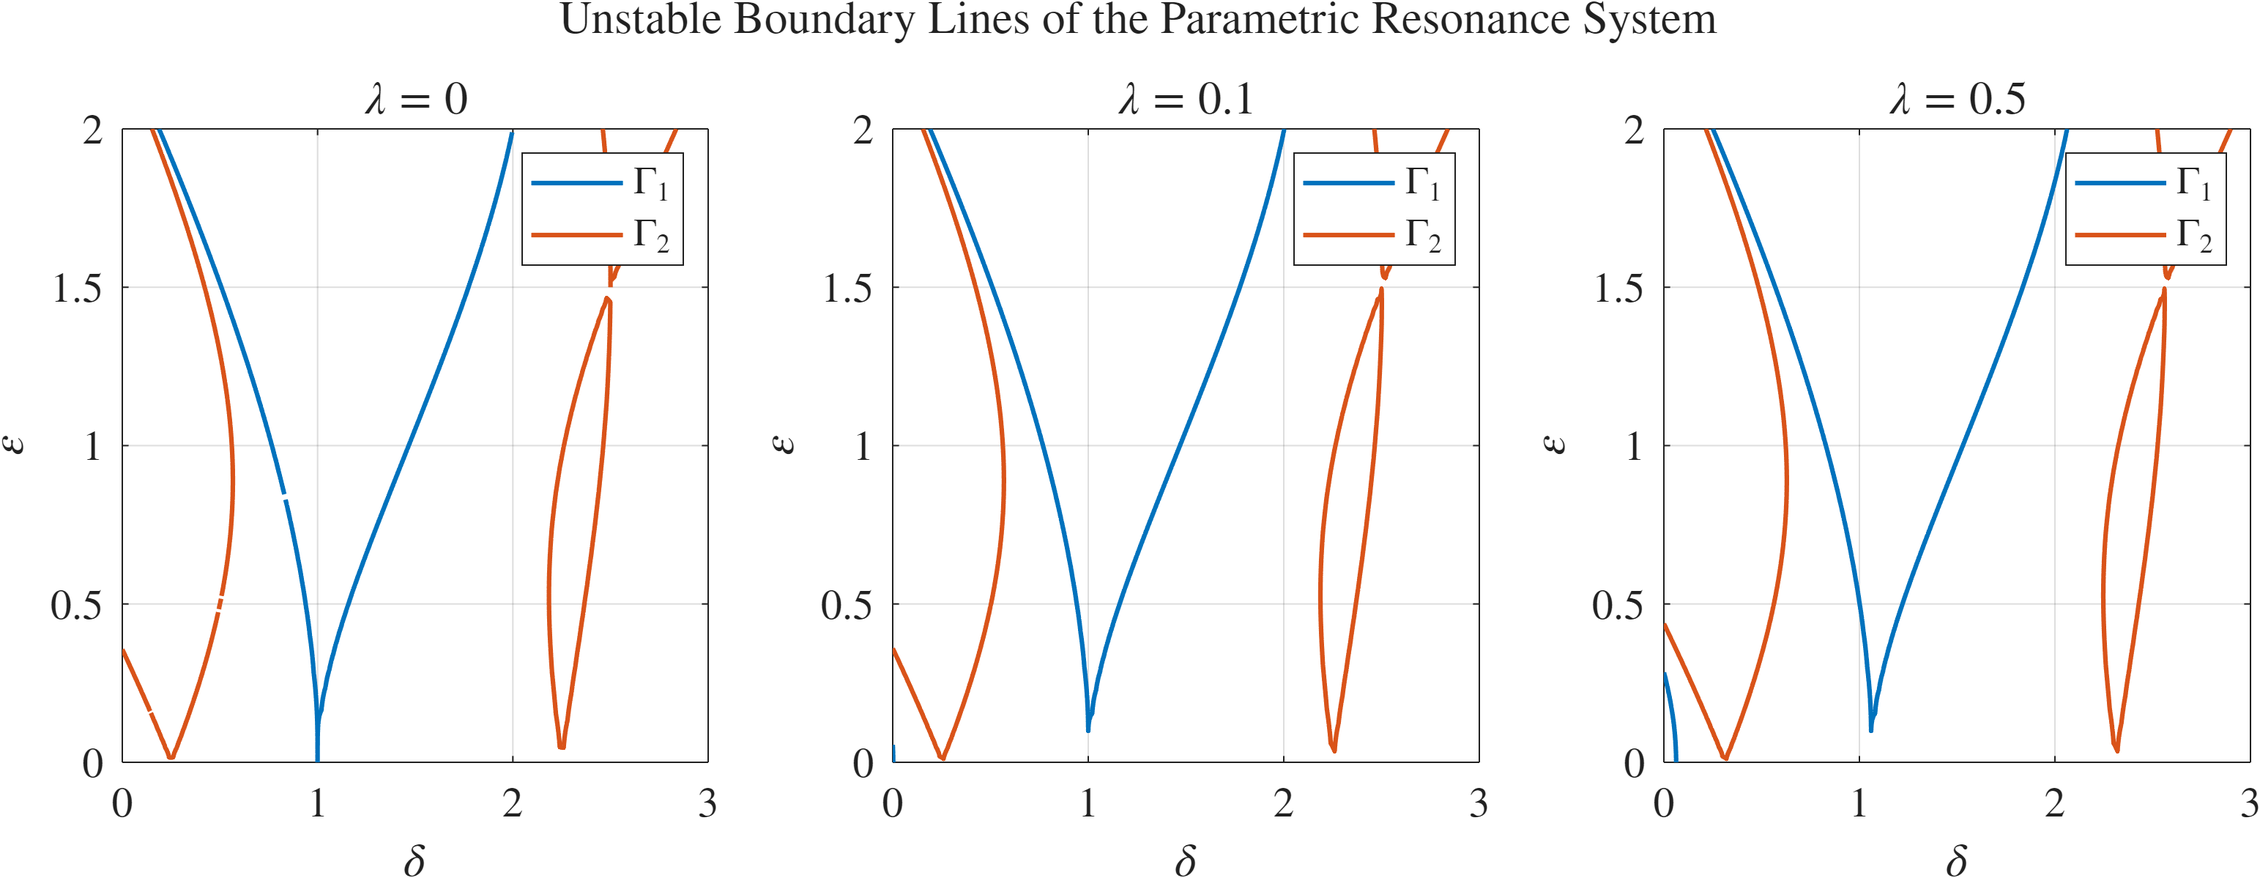
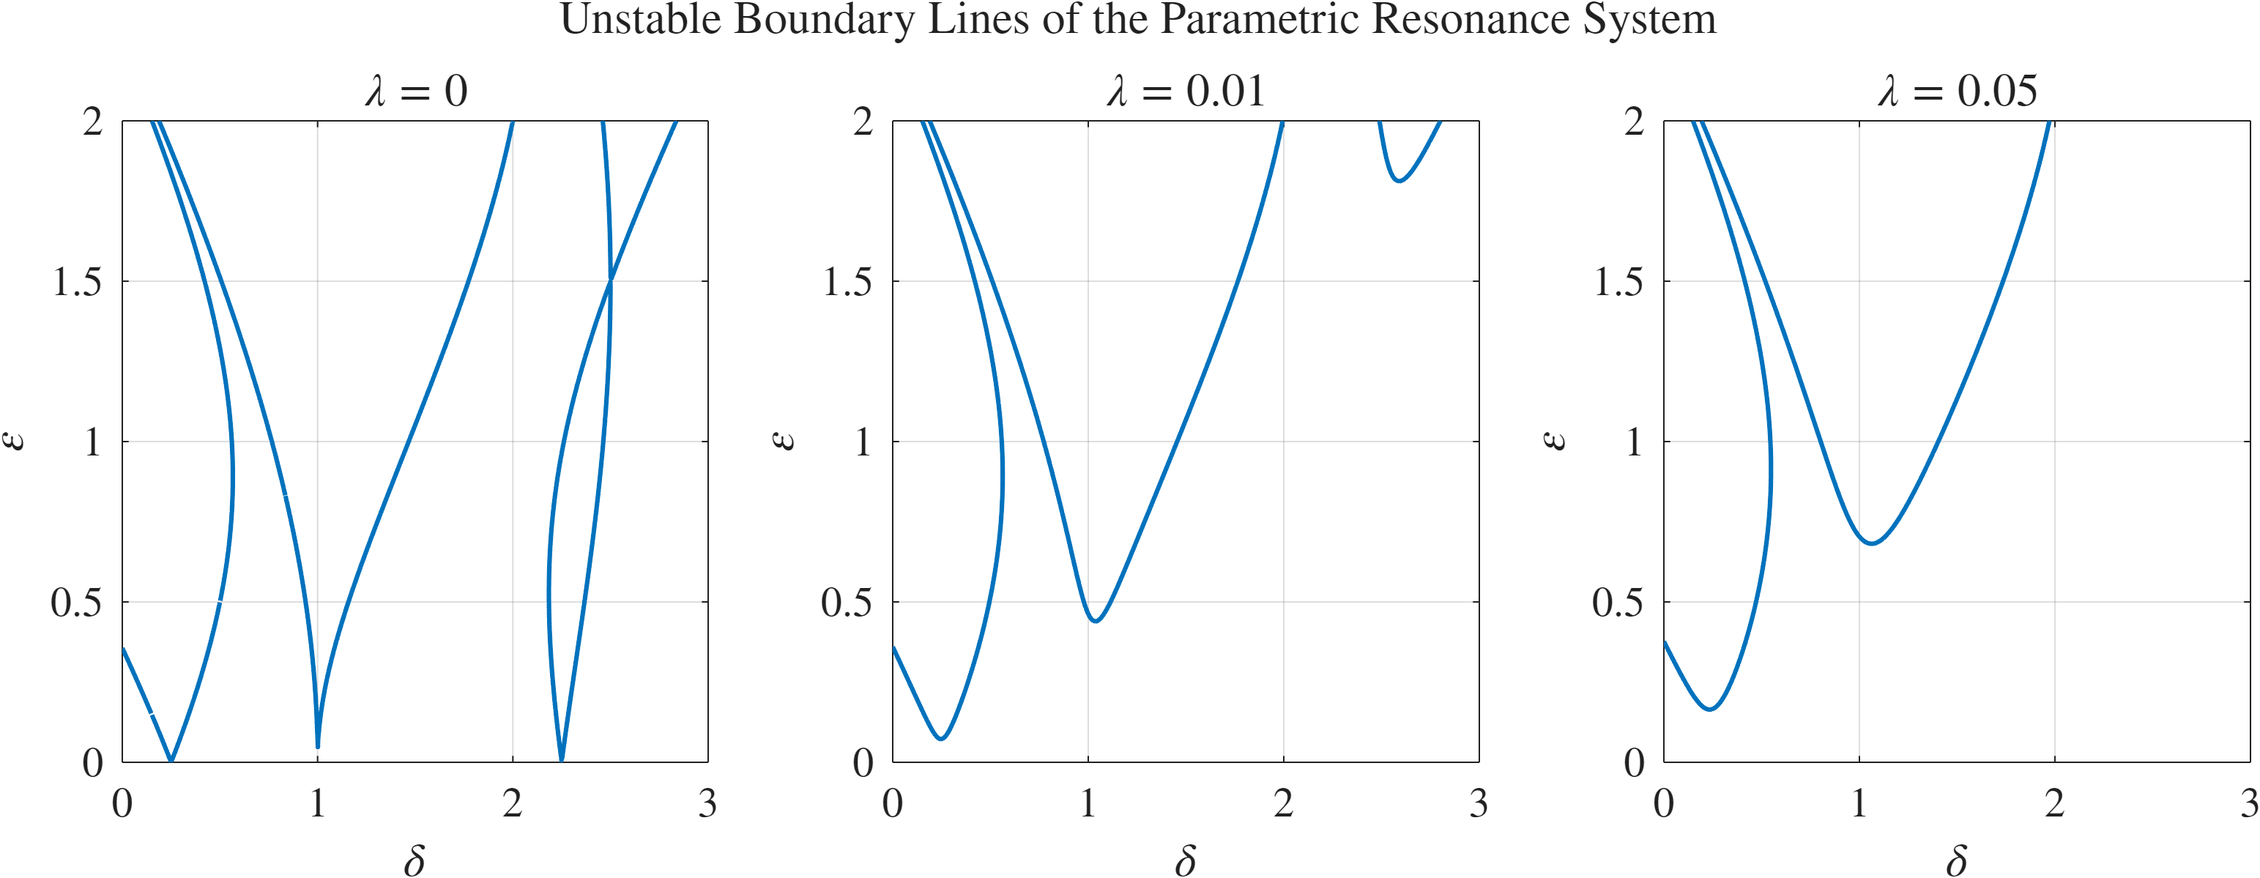
Add MDN and DVI content

diff --git a/Technion/DVI1/DVI1_005/code/q1.m b/Technion/DVI1/DVI1_005/code/q1.m
@@ -1,0 +1,69 @@
+clc; clear; close all;
+
+% Define the functions for the curves
+Gamma1 = @(delta, epsilon) (2*cos(pi*sqrt(delta+epsilon)).*sin(pi*sqrt(delta-epsilon)) - ...
+    (sqrt(delta+epsilon)./sqrt(delta-epsilon) + sqrt(delta-epsilon)./sqrt(delta+epsilon)).* ...
+    cos(pi*sqrt(delta-epsilon)).*sin(pi*sqrt(delta+epsilon))).*sin(2*pi*sqrt(delta-epsilon)) + ...
+    (2*cos(pi*sqrt(delta+epsilon)).*cos(pi*sqrt(delta-epsilon)) + ...
+    (sqrt(delta+epsilon)./sqrt(delta-epsilon) + sqrt(delta-epsilon)./sqrt(delta+epsilon)).* ...
+    sin(pi*sqrt(delta-epsilon)).*sin(pi*sqrt(delta+epsilon))).*cos(2*pi*sqrt(delta-epsilon)) - 2;
+
+Gamma2 = @(delta, epsilon) (2*cos(pi*sqrt(delta+epsilon)).*sin(pi*sqrt(delta-epsilon)) - ...
+    (sqrt(delta+epsilon)./sqrt(delta-epsilon) + sqrt(delta-epsilon)./sqrt(delta+epsilon)).* ...
+    cos(pi*sqrt(delta-epsilon)).*sin(pi*sqrt(delta+epsilon))).*sin(2*pi*sqrt(delta-epsilon)) + ...
+    (2*cos(pi*sqrt(delta+epsilon)).*cos(pi*sqrt(delta-epsilon)) + ...
+    (sqrt(delta+epsilon)./sqrt(delta-epsilon) + sqrt(delta-epsilon)./sqrt(delta+epsilon)).* ...
+    sin(pi*sqrt(delta-epsilon)).*sin(pi*sqrt(delta+epsilon))).*cos(2*pi*sqrt(delta-epsilon)) + 2;
+
+% Plot the curves using fimplicit
+plotcolors = get(gca, 'ColorOrder');
+
+fimplicit(Gamma1, [0 3 0 1], 'LineWidth', 1.5, 'Color', plotcolors(1, :), 'MeshDensity', 600);
+hold on;
+fimplicit(Gamma2, [0 3 0 1], 'LineWidth', 1.5, 'Color', plotcolors(1, :), 'MeshDensity', 600);
+
+% Plot 6 points with different colors
+epsilon = 0.5;
+delta_values = [0.25, 0.75, 1.05, 1.5, 2.27, 2.75];
+for i = 1:length(delta_values)
+    plot(delta_values(i), epsilon, 'o', 'MarkerSize', 8, 'MarkerEdgeColor', plotcolors(mod(i, size(plotcolors, 1)) + 1, :), 'MarkerFaceColor', plotcolors(mod(i, size(plotcolors, 1)) + 1, :));
+end
+
+xlabel('$\delta$', 'Interpreter', 'latex');
+ylabel('$\epsilon$', 'Interpreter', 'latex');
+title('Strutt Diagram', 'Interpreter', 'latex');
+legend({'$\Gamma_1$', '$\Gamma_2$'}, 'Interpreter', 'latex');
+grid on;
+hold off;
+set(gcf, 'Position', [100, 100, 600, 400]);
+
+% Save the plot
+exportgraphics(gcf, 'q1.png', 'Resolution', 300);
+
+% Time domain response for the 6 points
+figure;
+tspan = linspace(0, 300, 1000);
+
+T = 2 * pi;
+u0 = [0.1; 0]; % Assuming initial displacement of 1 and initial velocity of 0
+
+
+for i = 1:length(delta_values)
+    delta = delta_values(i);
+    k = @(t) (mod(t, T) <= T/2) * (delta + epsilon) + (mod(t, T) > T/2) * (delta - epsilon);
+        % Define the ODE system
+    ode_system = @(t, u) [u(2); -k(t) * u(1)];
+
+    % Solve the ODE
+    [t, u] = ode45(ode_system, tspan, u0);
+    subplot(3, 2, i);
+    plot(t, u, 'Color', plotcolors(mod(i, size(plotcolors, 1)) + 1, :), 'LineWidth', 1.5);
+    xlabel('$t$', 'Interpreter', 'latex');
+    ylabel('$u$', 'Interpreter', 'latex');
+    title(['$\delta = ', num2str(delta), '$'], 'Interpreter', 'latex');
+    grid on;
+end
+
+% Adjust figure size and save
+set(gcf, 'Position', [100, 100, 600, 600]);
+exportgraphics(gcf, 'q1_responses.png', 'Resolution', 300);

diff --git a/Technion/DVI1/DVI1_HW002/code/p1.m b/Technion/DVI1/DVI1_HW002/code/p1.m
@@ -20,7 +20,7 @@ for i = 1:length(lambda_values)
         (2*cos(pi*sqrt(delta - lambda^2/4 + epsilon)).*cos(pi*sqrt(delta - lambda^2/4 - epsilon)) + ...
         (sqrt(delta - lambda^2/4 + epsilon)./sqrt(delta - lambda^2/4 - epsilon) + sqrt(delta - lambda^2/4 - epsilon)./sqrt(delta - lambda^2/4 + epsilon)).* ...
         sin(pi*sqrt(delta - lambda^2/4 - epsilon)).*sin(pi*sqrt(delta - lambda^2/4 + epsilon))).* ...
-        cos(2*pi*sqrt(delta - lambda^2/4 - epsilon)) - 2;
+        cos(2*pi*sqrt(delta - lambda^2/4 - epsilon)) - 2 .* sqrt(exp(lambda * 2 * pi) + 2 * lambda * exp(lambda * pi) + lambda^2);
 
     Gamma_2 = @(delta, epsilon) ...
         (2*cos(pi*sqrt(delta - lambda^2/4 + epsilon)).*sin(pi*sqrt(delta - lambda^2/4 - epsilon)) - ...
@@ -30,21 +30,22 @@ for i = 1:length(lambda_values)
         (2*cos(pi*sqrt(delta - lambda^2/4 + epsilon)).*cos(pi*sqrt(delta - lambda^2/4 - epsilon)) + ...
         (sqrt(delta - lambda^2/4 + epsilon)./sqrt(delta - lambda^2/4 - epsilon) + sqrt(delta - lambda^2/4 - epsilon)./sqrt(delta - lambda^2/4 + epsilon)).* ...
         sin(pi*sqrt(delta - lambda^2/4 - epsilon)).*sin(pi*sqrt(delta - lambda^2/4 + epsilon))).* ...
-        cos(2*pi*sqrt(delta - lambda^2/4 - epsilon)) + 2;
+        cos(2*pi*sqrt(delta - lambda^2/4 - epsilon)) + 2 .* sqrt(exp(lambda * 2 * pi) + 2 * lambda * exp(lambda * pi) + lambda^2);
 
     % Create a subplot for each lambda
     subplot(1, length(lambda_values), i);
-    % Plot the implicit functions
-    fimplicit(Gamma_1, [0 3 0 2], 'LineWidth', 1.5);
+    % Plot the curves using fimplicit
+    plotcolors = get(gca, 'ColorOrder');
+
+    fimplicit(Gamma_1, [0 3 0 2], 'LineWidth', 1.5, 'Color', plotcolors(1, :), 'MeshDensity', 600);
     hold on;
-    fimplicit(Gamma_2, [0 3 0 2], 'LineWidth', 1.5);
+    fimplicit(Gamma_2, [0 3 0 2], 'LineWidth', 1.5, 'Color', plotcolors(1, :), 'MeshDensity', 600);
     hold off;
 
     % Add labels and title
     xlabel('$\delta$');
     ylabel('$\varepsilon$');
     title(['$\lambda = ', num2str(lambda), '$']);
-    legend('$\Gamma_1$', '$\Gamma_2$');
     grid on;
 
     set(gcf, 'Units', 'pixels', 'Position', [300, 300, 1200, 400]); % Set figure size and position

diff --git a/Technion/MDN1/MDN1_HW009/code/p1.py b/Technion/MDN1/MDN1_HW009/code/p1.py
@@ -1,0 +1,55 @@
+# %% Question 1
+import numpy as np
+
+N_P = 15
+m = 5  # mm
+d_P = float(N_P * m)  # mm
+print(f'd_P = {d_P:.5} mm')
+
+n_arm = 250  # rpm
+n_S = -5000 / 7  # rpm
+N_S = 35
+
+# Calculate n_P
+n_P = (-(N_S / N_P) * (n_S - n_arm)) + n_arm
+print(f'n_P = {n_P:.5} rpm')
+
+# Calculate W_t,P
+H = 5000  # W
+W_t_P = (30000 * H) / (np.pi * d_P * n_P)  # N
+print(f'W_t,P = {W_t_P:.5} N')
+
+# %% Question 2
+
+# Calculate W_r,P
+phi = np.radians(20)  # Convert angle to radians
+W_r_P = W_t_P * np.tan(phi)  # N
+print(f'W_r,P = {W_r_P:.5} N')
+
+# %% Question 3
+
+# Given data
+K_O = 1.5
+K_V = 1.3
+K_s = 1
+K_H = 1.4
+K_B = 1
+Y_J = 0.25
+H_B = 350
+S_F = 1
+Y_Z = 1
+Y_theta = 1
+Y_N = 0.97678
+
+# Calculate S_t
+S_t = 0.533 * H_B + 88.3  # MPa
+print(f'S_t = {S_t:.5} MPa')
+
+# Calculate sigma_b_all
+sigma_b_all = (S_t / S_F) * (Y_N / (Y_theta * Y_Z))  # MPa
+print(f'sigma_b_all = {sigma_b_all:.5} MPa')
+
+# Find the maximum allowable b
+b_max = W_t_P * K_O * K_V * K_s * K_H * K_B / (sigma_b_all * Y_J * m)  # mm
+print(f'b_max = {b_max:.5} mm')
+

diff --git a/Technion/MDN1/MDN1_HW009 תרגיל בית 9.md b/Technion/MDN1/MDN1_HW009 תרגיל בית 9.md
@@ -1,0 +1,93 @@
+---
+aliases:
+---
+# בעיה 1
+נתונים:
+$$\begin{aligned}
+ & {n}_{\text{arm}}=\pu{250rpm}, &  & H=\pu{5kW}, \\[1ex]
+ & \phi=20^{\circ}, &  & m=\pu{5mm} \\[1ex]
+ & {N}_{R}=65, &  & {N}_{A}=20, \\[1ex]
+ & {N}_{B}=80, &  & {N}_{S}=35
+\end{aligned}$$
+
+## שאלה 1
+לפי [[MDN1_008 כוחות שילוב ומאמצי מגע בשן#ניתוח כוחות - גג"ש ישרות|כוח משיקי בגג"ש ישרות]]:
+$${W}_{t}=\dfrac{\pu{60000}H}{\pi dn}$$
+בהנחה ואין איבוד הספקים, לאורך כל התמסורת ההספק המועבר הוא $H$ הנתון. אבל, נשים לב שמאחר ויש שני לוויינים, על כל אחד מהם פועל מחצית מההספק:
+$${W}_{t,P}=\dfrac{\pu{30000}H}{\pi {d}_{P}{n}_{P}}$$
+כאשר הסימון $P$ הוא עבור planet.
+מ[[MDN1_HW007 תרגיל בית 7#שאלה 1|שאלה בתרגיל בית קודם]] אנו יודעים ש- ${N}_{P}=15$, ומאחר והמודול הוא $m=\pu{5mm}$:
+$${d}_{P}={N}_{P}m=\pu{75mm}$$
+מאותה השאלה אנו גם יודעים ש:
+$${n}_{S}=-\dfrac{5000}{7}\,\pu{rpm}$$
+כדי למצוא את המהירות הזוויתית של הלוויינים, נשים לב שלפי [[MDN1_006 תמסורות מכאניות#תמסורת פלנטרית|תמסורת פלנטרית]], ולפי מספר השיניים:
+$$\begin{gathered}
+\left( -\dfrac{{N}_{S}}{{N}_{P}} \right)={e}_{S/P}=\dfrac{{n}_{P}-{n}_{\text{arm}}}{{n}_{S}-{n}_{\text{arm}}} \\[1ex]
+-\dfrac{35}{15}=\dfrac{{n}_{P}-250}{-5000/7-250} \\[1ex]
+{n}_{P}=\pu{2500rpm} \\[1ex]
+\end{gathered}$$
+נציב הכל לתוך הביטוי ל-${W}_{t,P}$:
+$${W}_{t,P}=\dfrac{\pu{30000}H}{\pi {d}_{P}{n}_{P}}=\dfrac{\pu{30000}\cdot\pu{5000}}{\pi \cdot \pu{75} \cdot \pu{2500}}
+$$
+לכן:
+$$\boxed {
+{W}_{t,P}=\pu{254.65N}
+ }$$
+
+## שאלה 2
+
+את רכיבי הכוחות הרדיאליים ניתן לחשב באמצעות זוויות הלחץ (גאומטריה):
+$${W}_{r}={W}_{t}\tan \phi$$
+במקרה שלנו זה פשוט:
+$$\begin{gathered}
+{W}_{r,P}={W}_{t,P}\tan 20^{\circ}=\pu{254.65} \cdot \tan 20^{\circ} \\[1ex]
+\boxed{{W}_{r,P}=\pu{92.684N} }
+\end{gathered}$$
+
+## שאלה 3
+נביט ב[[MDN1_008 כוחות שילוב ומאמצי מגע בשן#משוואות מאמץ AGMA|משוואה]] $(\text{14-15})$:
+$$\begin{gathered}
+{\sigma}_{b}=W^{t}{K}_{o}{K}_{v}{K}_{s} \dfrac{1}{b{m}} \dfrac{{K}_{H}{K}_{B}}{{Y}_{J}}
+\end{gathered}$$
+נרצה לדעת עבור איזה $b$ מתקיים שהמאמץ כפיפה הוא מתחת ל[[MDN1_008 כוחות שילוב ומאמצי מגע בשן#מאמץ כפיפה מותר|מאמץ הכפיפה המותר]]:
+$${\sigma}_{b,\, \text{all}}=\dfrac{{S}_{t}}{{S}_{F}} \dfrac{{Y}_{N}}{{Y}_{\theta}{Y}_{Z}}$$
+
+כלומר, מהתנאי ${\sigma}_{b}<{\sigma}_{b,\,\text{all}}$ נחלץ מהו $b$ המותר.
+
+נחשב את כל אחד מהמקדמים:
+- נתונים לנו כבר:
+	$$\begin{aligned}
+ & {K}_{o}=1.5, &  & {K}_{v}=1.3, \\[1ex]
+ & {K}_{s}=1, &  & {K}_{H}=1.4
+\end{aligned}$$
+- מבחינת [[MDN1_008 כוחות שילוב ומאמצי מגע בשן#מקדם עובי הזר|מקדם עובי הזר]], נחשב את יחס הגיבוי ${m}_{B}$. עבור גג"ש מלא, אנו יודעים לחשב את רדיוס המעגל העיקרי באופן הבא:
+	$${m}_{B}=\dfrac{{t}_{R}}{{h}_{t}}=\dfrac{[({N}_{P}/2)-1.25]m}{2.25m}=2.7778$$
+	ולכן המקדם:
+	$${K}_{B}=1$$
+- את ה[[MDN1_008 כוחות שילוב ומאמצי מגע בשן#מקדם הצורה|מקדם הצורה]] נשלוף מטבלה רלוונטית עבור מספר השיניים בלוויין ${n}_{P}=15$ , מספר השיניים בשמש ${N}_{S}=35$, וזווית לחץ של $20^{\circ}$. מהגרף:
+	$${Y}_{J,P}=\dots =0.25$$
+- ה[[MDN1_008 כוחות שילוב ומאמצי מגע בשן#חוזק לכפיפה|חוזק לכפיפה]] עבור Grade 1 ו-$350{H}_{B}$ הינו:
+	$$\begin{aligned}
+{S}_{t} & =0.533{H}_{B}+88.3 \\[1ex]
+ & =\pu{274.85MPa}
+\end{aligned}$$
+- ה[[#מקדם אמינות]], מאחר והניסויים גם מתבצעים עבור $99\%$:
+	$${Y}_{Z}=1$$
+- ניקח [[MDN1_008 כוחות שילוב ומאמצי מגע בשן#מקדם טמפרטורה|מקדם טמפרטורה]] ${Y}_{\theta}=1$.
+- נבחר מקדם ביטחון לכפיפה ${S}_{F}=1$.
+- מבחינת [[MDN1_008 כוחות שילוב ומאמצי מגע בשן#מקדם מספר מחזורים לכפיפה|מקדם מספר מחזורים לכפיפה]], כיוון שאנו דורשים מספר מחזורים מעל $10^{8}$:
+	$${Y}_{N}=1.3558N^{-0.0178}=0.97678$$
+נציב הכל ב[[#מאמץ כפיפה מותר|משוואה]] $(\text{14-17})$:
+$${\sigma}_{b,\, \text{all}}=\dfrac{{S}_{t}}{{S}_{F}} \dfrac{{Y}_{N}}{{Y}_{\theta}{Y}_{Z}}=\pu{268.47MPa}$$
+נזכור כי אנו רוצים לקיים ${\sigma}_{b}<{\sigma}_{b,\,\text{all}}$:
+$$\begin{gathered}
+W^{t}{K}_{o}{K}_{v}{K}_{s} \dfrac{1}{b{m}} \dfrac{{K}_{H}{K}_{B}}{{Y}_{J}}<{\sigma}_{b,\, \text{all}} \\[1ex]
+b>W^{t}{K}_{o}{K}_{v}{K}_{s} \dfrac{1}{m} \dfrac{1}{{\sigma}_{b,\, \text{all}}} \dfrac{{K}_{H}{K}_{B}}{{Y}_{J}}
+\end{gathered}$$
+נציב ערכים ונקבל:
+$$\boxed{b> \pu{2.0716mm} }$$
+
+
+
+
+# בעיה 2

diff --git a/Technion/MDN1/MDN1_008 כוחות שילוב ומאמצי מגע בשן.md b/Technion/MDN1/MDN1_008 כוחות שילוב ומאמצי מגע בשן.md
@@ -11,6 +11,8 @@ aliases:
   - מקדם אלסטיות
   - מקדם מספר מחזורים לכפיפה
   - מקדם מספר מחזורים למגע
+  - כוח משיקי בגג"ש ישרות
+  - כוח משיקי בגג"ש משופעות
 ---
 
 # ניתוח כוחות - גג"ש ישרות
@@ -32,8 +34,8 @@ $$H=T\omega=({W}_{t}d/2)\omega\tag{13-33}$$
 $${W}_{t}=\dfrac{\pu{60000}H}{\pi dn} \tag{13-36}$$
 
 כאשר:
-- העומס ${W}_{t}$ הוא העומס המועבר ב-$\pu{kN}$.
-- ההספק $H$, ב-$\pu{kW}$.
+- העומס ${W}_{t}$ הוא הכוח המשיקי המועבר ב-$\pu{N}$.
+- ההספק $H$, ב-$\pu{W}$.
 - הקוטר $d$ של הגיר, ב-$\pu{mm}$.
 - המהירות הזוויתית $n$, ב-$\pu{rpm}$.
 
@@ -95,6 +97,7 @@ $${\sigma}_{b}=W^{t}{K}_{o}{K}_{v}{K}_{s} \dfrac{1}{b{m}_{t}} \dfrac{{K}_{H}{K}_
 - המאמץ ${\sigma}_{b}$ הוא מאמץ הכפיפה ב-$\pu{MPa}$. נקרא גם bending stress number.
 - העומס ${W}_{t}$ הוא העומס המשיקי ב-$\pu{N}$.
 - האורך $b$ הוא רוחב השן ב-$\pu{mm}$.
+- האורך ${m}_{t}$ הוא המודול החזיתי ב-$\pu{mm}$. במקרה של גג"ש ישרות הוא פשוט ${m}_{t}=m$.
 - המקדם ${K}_{o}$ הוא [[#מקדם עומס יתר]].
 - המקדם ${K}_{s}$ הוא [[#מקדם הגודל]].
 - המקדם ${K}_{H}$ הוא [[#מקדם התפלגות העומס]] (מסומן גם ${K}_{M}$).
@@ -222,6 +225,8 @@ $${Y}_{J}=\dfrac{Y}{{K}_{f}{m}_{N}} \tag{14-20}$$
 נגדיר:
 $${m}_{B}=\dfrac{{t}_{R}}{{h}_{t}}\tag{14-39}$$
 כאשר ${h}_{t}$ הוא גובה השן.
+עבור גג"ש מלא, אנו יודעים לחשב את רדיוס המעגל העיקרי באופן הבא:
+	$${m}_{B}=\dfrac{{t}_{R}}{{h}_{t}}=\dfrac{[({N}_{P}/2)-1.25]m}{2.25m}=\dfrac{{N}_{P}/2-1.25}{2.25}$$
 
 **מקדם עובי הזר** ${K}_{B}$ מחושב באופן הבא:
 $${K}_{B}=\begin{cases}
@@ -570,7 +575,7 @@ $$\begin{aligned}
 - ה[[#ניתוח כוחות - גג"ש ישרות|כוח המשיקי]]:
 	$${W}_{t}=\dfrac{\pu{60000}H}{\pi dn}$$
 - ה[[#מקדם עומס יתר]], מאחר ומדובר במנוע רב צילינדר:
-	$${K}_{O}=1.25$$
+	$${K}_{o}=1.25$$
 - מבחינת ה[[#מקדם דינאמי]], נצטרך את המהירות המשיקית:
 	$$V=\dfrac{\pi dn}{\pu{60000}}=\dfrac{\pi({N}_{P}m)n}{\pu{60000}}=\pu{7.85m.s^{-1}}$$
 	נחשב את המקדמים $A,B$ עבור ${Q}_{v}=7$:
@@ -582,11 +587,11 @@ $$\begin{aligned}
 	$${V}_{\max_{}}=\dfrac{[A+(7-3)]^{2}}{200}=\pu{24.24m.s^{-1}}$$
 	ואכן המהירות המשיקית קטנה מהמקסימלית האפשרית.
 	כעת, בהינתן $A,B$, אנו יכולים לחשב את ה[[#מקדם דינאמי|מקדם הדינאמי]]:
-	$${K}_{V}=\left( \dfrac{A+\sqrt{ 200V }}{A} \right)^{B}=1.41$$
+	$${K}_{v}=\left( \dfrac{A+\sqrt{ 200V }}{A} \right)^{B}=1.41$$
 - הפסיעה הינה $p=\pi m=\pu{4.71mm}<\pu{8mm}$, ולכן [[#מקדם הגודל]] הינו:
 	$${K}_{s}=1$$
-- מבחינת [[#מקדם עובי הזר]], נחשב את יחס הגיבוי ${m}_{B}$:
-	$${m}_{B}=\dfrac{{t}_{R}}{{h}_{t}}=\dfrac{({N}_{P}/2)-1.25}{2.25}=10.55>1.2$$
+- מבחינת [[#מקדם עובי הזר]], נחשב את יחס הגיבוי ${m}_{B}$. עבור גג"ש מלא, אנו יודעים לחשב את רדיוס המעגל העיקרי באופן הבא:
+	$${m}_{B}=\dfrac{{t}_{R}}{{h}_{t}}=\dfrac{[({N}_{P}/2)-1.25]m}{2.25m}=10.55>1.2$$
 	ולכן המקדם:
 	$${K}_{B}=1$$
 - מבחינת [[#מקדם התפלגות העומס]], מקדם תיקון הצורה, מאחר ואנו מניחים שאין הכתרה:

diff --git a/Technion/DVI1/DVI1_005 אוסילטור פרמטרי.md b/Technion/DVI1/DVI1_005 אוסילטור פרמטרי.md
@@ -152,6 +152,8 @@ $$\lambda ^{2}-[{u}_{1}(T)+\dot{u}_{2}(T)]\lambda+1=0$$
 נוכל לרשום את הפתרונות כ:
 $${\lambda}_{1}=\alpha +\sqrt{ \alpha ^{2}-1 },\qquad {\lambda}_{2}=\alpha -\sqrt{ \alpha ^{2}-1 } \tag{*2.16}$$
 כאשר $\alpha=\dfrac{1}{2}({u}_{1}(T)+\dot{u}_{2}(T))$.
+
+
 מכאן רואים שמתקיים הקשר:
 $${\lambda}_{1}{\lambda}_{2}=1 \tag{*2.17}$$
 מה שמסווג את היציבות שלנו לשלושה מקרים:
@@ -294,14 +296,19 @@ $$\begin{aligned}
  & {\Gamma}_{1}: & & \left[ 2\cos(\pi\Lambda^{+})\sin(\pi\Lambda^{-})-\left( \dfrac{\Lambda^{+}}{\Lambda^{-}}+\dfrac{\Lambda^{-}}{\Lambda^{+}} \right)\cos(\pi\Lambda^{-})\sin(\pi\Lambda^{+}) \right]\sin(2\pi\Lambda^{-}) \\[1ex]
   &  &  & +\left[2\cos(\pi\Lambda^{+})\cos(\pi\Lambda^{-})+\left( \dfrac{\Lambda^{+}}{\Lambda^{-}}+\dfrac{\Lambda^{-}}{\Lambda^{+}} \right)\sin(\pi\Lambda^{-})\sin(\pi\Lambda^{+})\right]\cos(2\pi\Lambda^{-})=2 \\[3ex]
  & {\Gamma}_{2}:& & \left[ 2\cos(\pi\Lambda^{+})\sin(\pi\Lambda^{-})-\left( \dfrac{\Lambda^{+}}{\Lambda^{-}}+\dfrac{\Lambda^{-}}{\Lambda^{+}} \right)\cos(\pi\Lambda^{-})\sin(\pi\Lambda^{+}) \right]\sin(2\pi\Lambda^{-}) \\[1ex]
-  &  &  & +\left[2\cos(\pi\Lambda^{+})\cos(\pi\Lambda^{-})+\left( \dfrac{\Lambda^{+}}{\Lambda^{-}}+\dfrac{\Lambda^{-}}{\Lambda^{+}} \right)\sin(\pi\Lambda^{-})\sin(\pi\Lambda^{+})\right]\cos(2\pi\Lambda^{-})=2
+  &  &  & +\left[2\cos(\pi\Lambda^{+})\cos(\pi\Lambda^{-})+\left( \dfrac{\Lambda^{+}}{\Lambda^{-}}+\dfrac{\Lambda^{-}}{\Lambda^{+}} \right)\sin(\pi\Lambda^{-})\sin(\pi\Lambda^{+})\right]\cos(2\pi\Lambda^{-})=-2
 \end{aligned}$$
 
 נשים לב ש:
 $$\dfrac{\Lambda^{+}}{\Lambda^{-}}+\dfrac{\Lambda^{-}}{\Lambda^{+}}=\dfrac{\sqrt{ {{\delta}}+\varepsilon }}{\sqrt{ {{\delta}}-\varepsilon }}=\dfrac{2{{\delta}}}{\sqrt{ {{\delta}}^{2}-\varepsilon ^{2} }}$$
 
 
-
 קיבלנו עקומים שתלויים ב- $\Lambda^{+}$ ו-$\Lambda^{-}$ ולכן תלויים ב- $\delta,\varepsilon$, שניתן לשרטט כדי לקבל דיאגרמת Strutt:
-![[{BFD99434-8F3B-4624-A260-08E8CA0FE188}.png|bookhue]]
+![[q1.png|bookhue|600]]
 >דיאגרמת Strutt של הבעיה הנתונה.
+
+נקודות בתוך הלשוניות מתארות ערכי $\delta,\varepsilon$ בהם המערכת לא יציבה. התגובה במישור הזמן לנקודות הרלוונטיות:
+![[q1_responses.png|bookhue|600]]
+>תגובה לתנאי התחלה $\mathbf{u}_{0}=\begin{pmatrix}0.1&0\end{pmatrix}^{T}$ בערכי $\delta,\varepsilon$ התואמים לנקודות בגרף Strutt לעיל.
+
+הקוד לגרף ב-`MATLAB` נמצא ב[GitHub](https://github.com/NuclearGandhi/technion_second_brain/blob/master/Technion/DVI1/DVI1_005/code/q1.m).

diff --git a/Technion/MDN1/MDN1_000 00340054 תכן מכני 1מ.md b/Technion/MDN1/MDN1_000 00340054 תכן מכני 1מ.md
@@ -33,6 +33,7 @@ aliases:
 - [[MDN1_HW006 תרגיל בית 6]]
 - [[MDN1_HW007 תרגיל בית 7]]
 - [[MDN1_HW008 תרגיל בית 8]]
+- [[MDN1_HW009 תרגיל בית 9]]
 ## מבחנים
 
 ## נספחים
